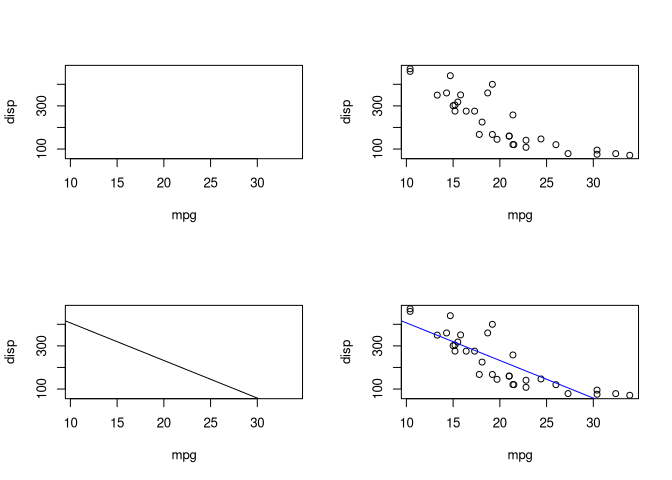
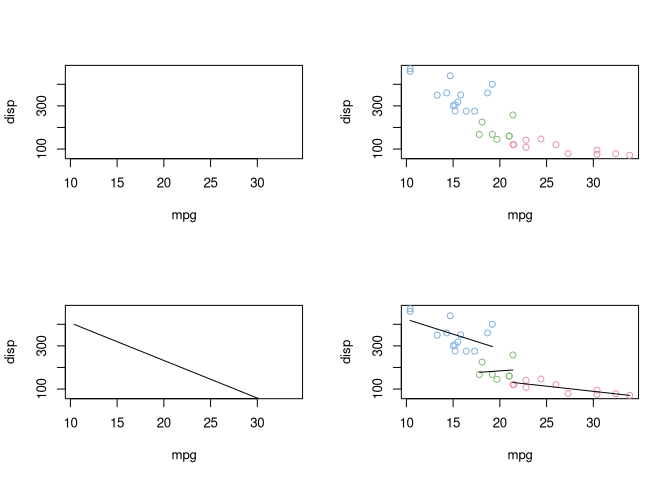
amp

diff --git a/README.md b/README.md
@@ -1,14 +1,17 @@
 <!-- README.md is generated from README.Rmd. Please edit that file -->
 
-# proof of concept for implementing grammar of graphics in base plot
+# Grammar of Graphics for base plot
+
+`amp()` for \_\_a\_\_esthetic \_\_m\_\_a\_\_p\_\_ping, that equivalent
+to `ggplot2::aes()`.
 
 ``` r
 library(bbplot)
 
-p = bbplot(mtcars, list(x='mpg', y='disp'))
+p <- bbplot(mtcars, amp(mpg, disp, col=factor(cyl)))
 p1 = p %>% ly_point
-p2 = p %>% ly_lm
-p3 = p %>% ly_point %>% ly_lm(col='blue')
+p2 = p %>% ly_lm(col='blue')
+p3 = p %>% ly_point %>% ly_lm(amp(group=cyl))
 par(mfrow=c(2,2))
 p; p1; p2; p3
 ```
